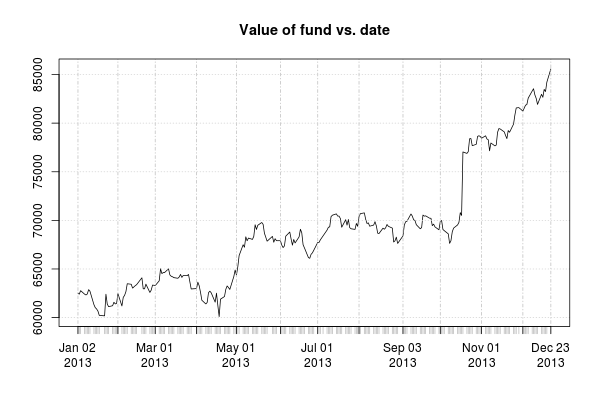
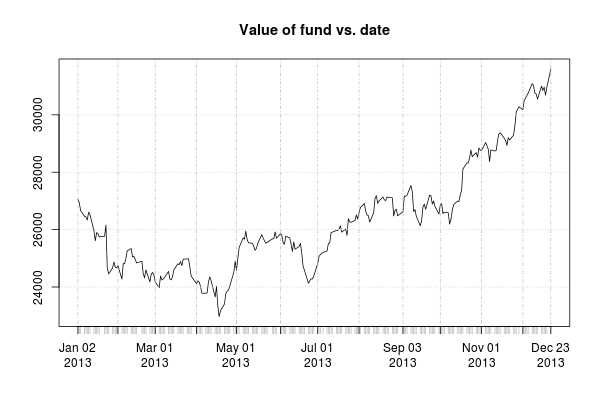
ENH: Better ratios for stock.

diff --git a/README.md b/README.md
@@ -17,7 +17,7 @@ dev.off()
 
 Now, we can create a custom fund, with different numbers of shares for different stocks: 
 ```r
-myshares=list(Google=50, Apple=25, Coke=30, GM=125, Exxon=45)
+myshares=list(Google=5, Apple=25, Coke=30, GM=125, Exxon=45)
 ``` 
 As before, we can grab the stock values from Yahoo finance:
 ```r
